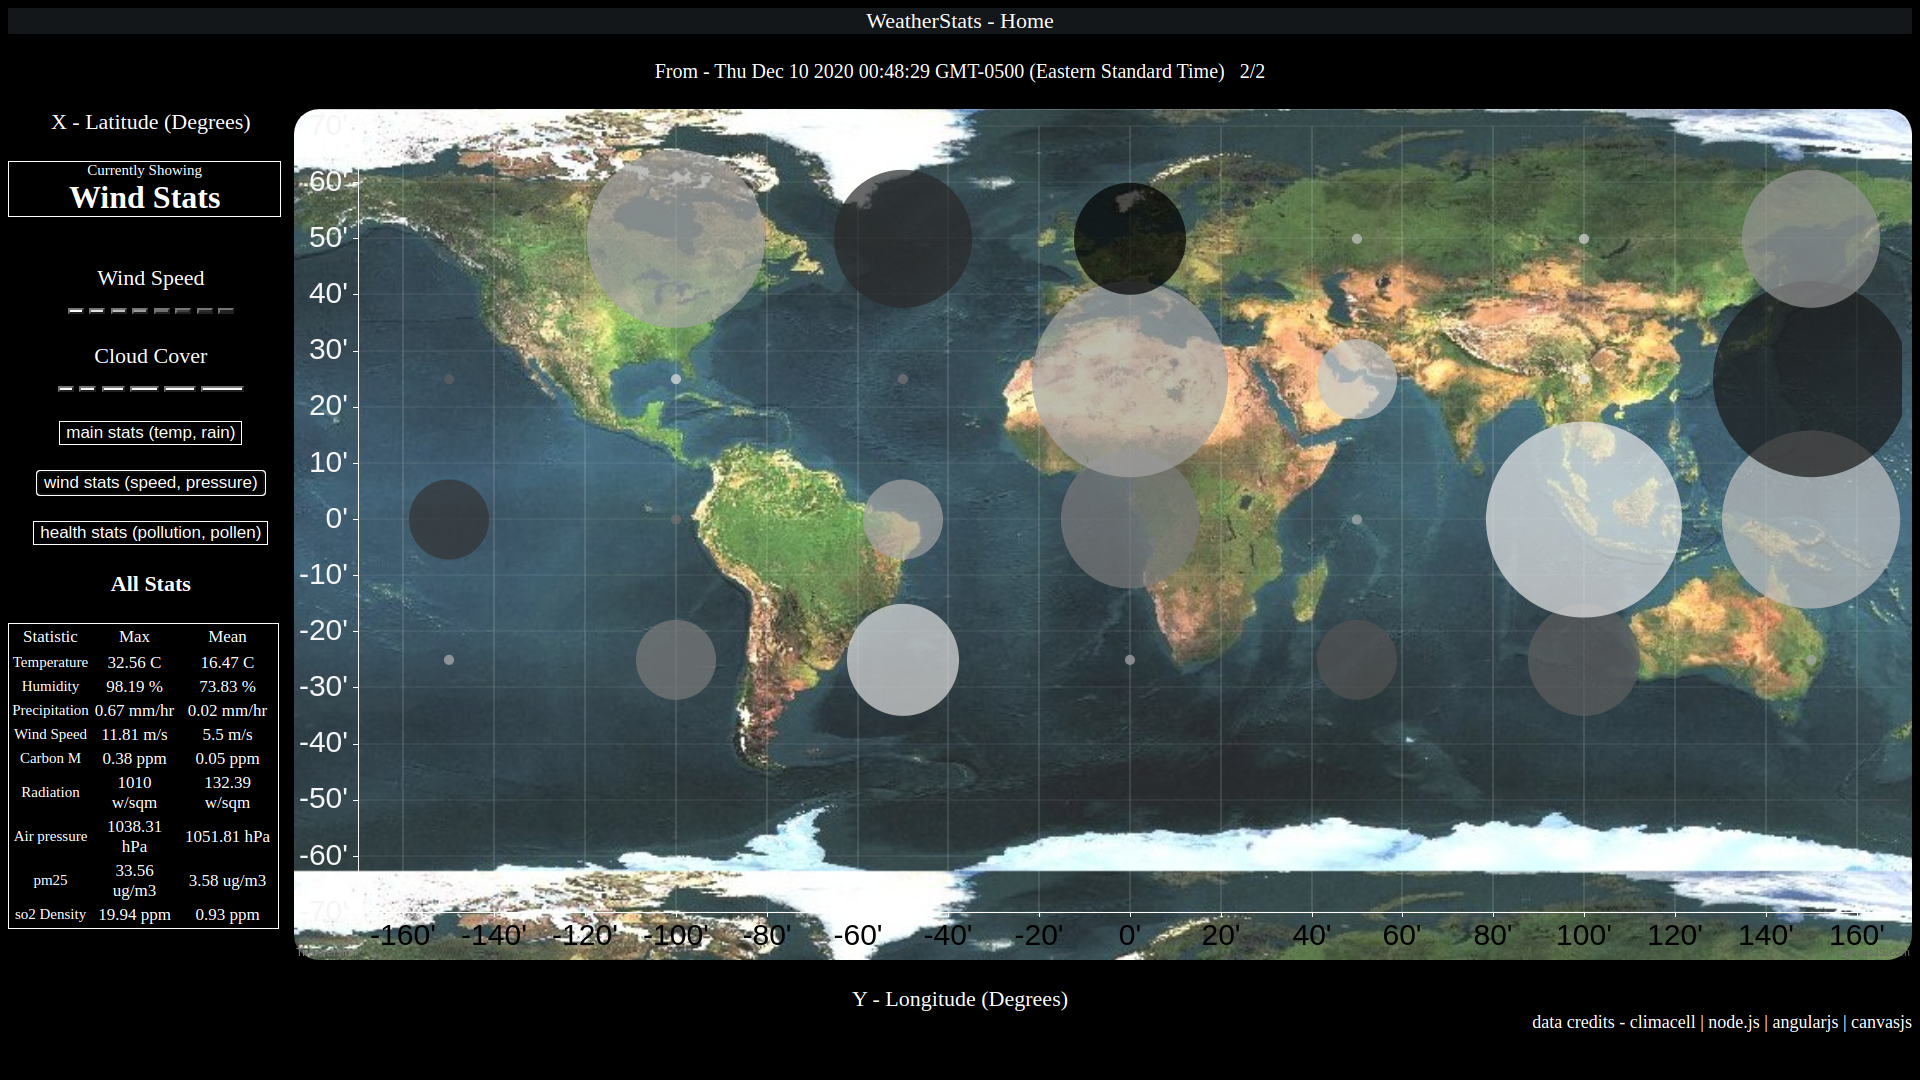
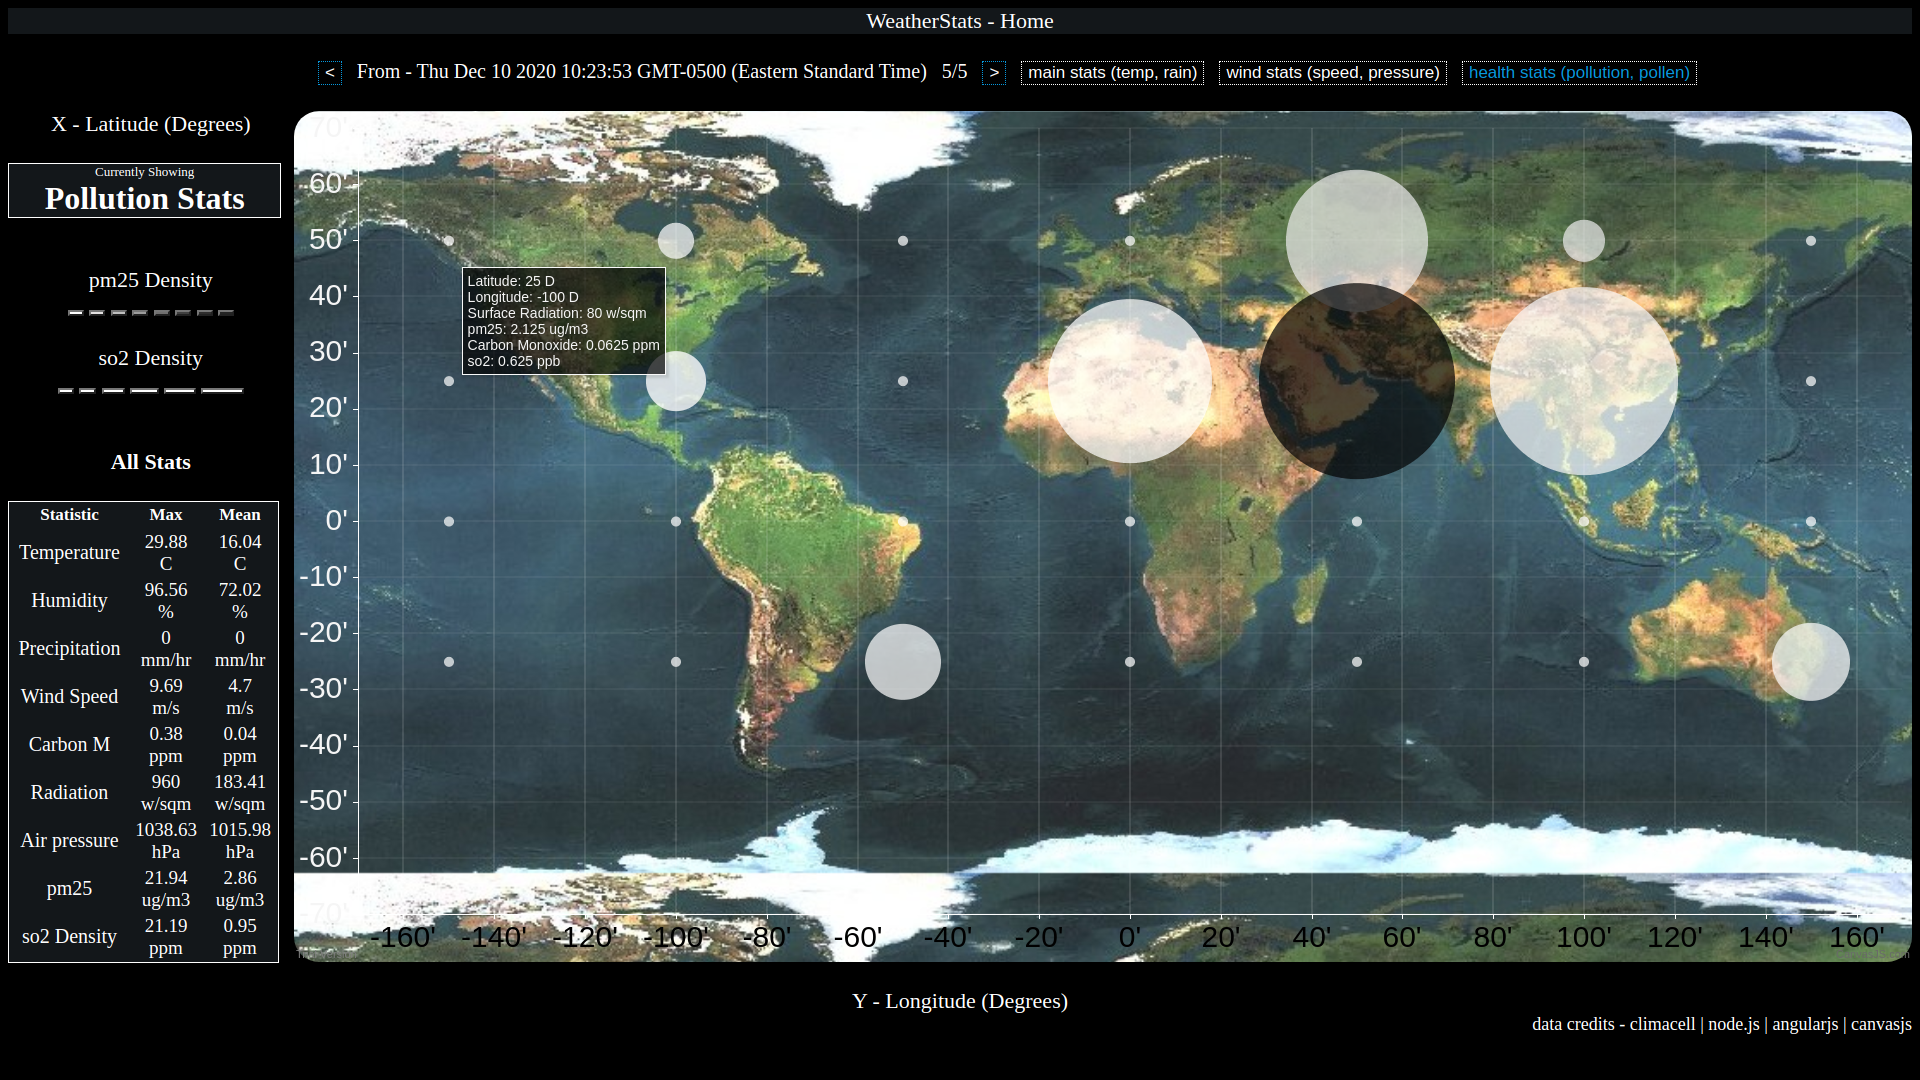
new

diff --git a/home.html b/home.html
@@ -8,15 +8,39 @@
 
    <body ng-app="myApp" ng-controller = "ajaxController" style="background-color: black; color: white; font-size: 22;">
      <center><div style="background-color: #13171a;">WeatherStats - Home</div><br>
-     <div style="font-size: 20;">From - {{date}} &nbsp; {{cr}}/{{received.length-1}}</div><br></center>
+
+     <div style="font-size: 20;">&nbsp;&nbsp;&nbsp;&nbsp;&nbsp;&nbsp;&nbsp;&nbsp;&nbsp;&nbsp;&nbsp;&nbsp;&nbsp;&nbsp;&nbsp;&nbsp;&nbsp;&nbsp;
+       <button ng-click="get_accurate(-1)" style="background: transparent; color: white; border: 1px dotted #0b98de; font-size: 17;">
+       <
+       </button>&nbsp;&nbsp;
+
+     From - {{date}} &nbsp; {{cr}}/{{received.length-1}}&nbsp;&nbsp;
+
+      <button ng-click="get_accurate(-2)" style="background: transparent; color: white; border: 1px dotted #0b98de; font-size: 17;">
+      >
+      </button>&nbsp;&nbsp;
+
+     <button ng-click="createch_main('main')" style="background: transparent; color: {{color_ch['main']}}; border: 1px dotted white; font-size: 17;">
+     main stats (temp, rain)
+    </button>&nbsp;&nbsp;
+
+     <button ng-click="createch_main('wind')" style="background: transparent; color: {{color_ch['wind']}}; border: 1px dotted white; font-size: 17;">
+     wind stats (speed, pressure)
+     </button>&nbsp;&nbsp;
+
+     <button ng-click="createch_main('health')" style="background: transparent; color: {{color_ch['health']}}; border: 1px dotted white; font-size: 17;">
+      health stats (pollution, pollen)
+    </button></div><br>
+     </center>
      <div>
        <div style="width: 100%; height: 80%;">
          <div style="width: 15%; float: left;">
            <center>
              X - Latitude (Degrees)<br><br>
-             <div style="border: 1px solid white; width: 95%; font-size: 15; float: left;">
+             <div style="border: 1px solid white; width: 95%; font-size: 13; float: left;background-color: #13171a;">
                Currently Showing<br><font size=6><b>{{heading}}</b></font>
              </div><br><br><br><br>
+             <div>
              {{guide[heading][0]}}<br>
             <button style="background-color: #ffffff; color: white;"></button>
             <button style="background-color: #e3e1e1; color: white;"></button>
@@ -34,28 +58,17 @@
            <button style="background-color: #ffffff; color: white; width: 10%;"></button>
            <button style="background-color: #ffffff; color: white; width: 11%;"></button>
            <button style="background-color: #ffffff; color: white; width: 15%;"></button>
-
+           </div>
            <br><br>
-           <button ng-click="createch_main('main')" style="background: transparent; color: white; border: 1px solid white; font-size: 17;">
-           main stats (temp, rain)
-          </button><br><br>
 
-           <button ng-click="createch_main('wind')" style="background: transparent; color: white; border: 1px solid white; font-size: 17;">
-           wind stats (speed, pressure)
-           </button><br><br>
-
-           <button ng-click="createch_main('health')" style="background: transparent; color: white; border: 1px solid white; font-size: 17;">
-            health stats (pollution, pollen)
-           </button><br><br>
-
-           <div style="font-size: 22;"><b>All Stats</b></div><br>
-           <table style="float: left; border: 1px solid white; width: 95%; font-size: 17; text-align: center;">
-            <tr><td>Statistic</td><td>Max</td><td>Mean</td></tr>
+           <div style="font-size: 22; "><b>All Stats</b></div><br>
+           <table style="float: left; border: 1px solid white; width: 95%; font-size: 17; text-align: center; background-color: #13171a;">
+            <tr><th>Statistic</th><th>Max</th><th>Mean</th></tr>
             <tr></tr>
-           <tr ng-repeat="xy in mean_stats" style="font-size: 15; text-align: center;">
+           <tr ng-repeat="xy in mean_stats" style="font-size: 20; text-align: center;">
              <td>{{xy["name"]}}</td>
-             <td style="font-size: 17;">{{xy["max"]}} {{xy["unit"]}}</td>
-             <td style="font-size: 17;">{{xy["mean"]}} {{xy["unit"]}}</td>
+             <td style="font-size: 19;">{{xy["max"]}}<br>{{xy["unit"]}}</td>
+             <td style="font-size: 19;">{{xy["mean"]}} <br>{{xy["unit"]}}</td>
            </tr>
           </table>
 
@@ -68,10 +81,10 @@
     <script>
         var weather = angular.module('myApp', []);
         weather.controller('ajaxController', function($scope, $http){
-
           $scope.createch_main =
           function (forecast)
           {
+            $scope.color_ch = {'main':'white', 'wind':'white', 'health': 'white'};
             $scope.cr = $scope.received.findIndex(function (tm){return tm.substring(0,20)==$scope.stats[0]["time"].substring(0,20);});
             var stats = $scope.stats;
             var stats = JSON.parse(JSON.stringify(stats).split('"lat":').join('"y":'));
@@ -116,6 +129,7 @@
 
               for (xy in stats)
               {
+                stats[xy]["z"] = stats[xy]["z"];
                 //console.log("rgb("+parseInt((stats[xy]["temp"]/$scope.mean_stats[0]["max"])*256)+",50,50)");
                 var cx = 256 - parseInt((stats[xy]["temp"]/$scope.mean_stats[0]["max"])*256);
                 var cx1 = "("+cx+","+cx+","+cx+")";
@@ -123,6 +137,7 @@
               }
             }
             $scope.heading = "Main Stats";
+            $scope.color_ch['main'] = '#0b98de';
             }
 
             if (forecast=="wind")
@@ -152,6 +167,7 @@
             }
 
             $scope.heading = "Wind Stats";
+            $scope.color_ch['wind'] = '#0b98de';
             }
 
             if (forecast=="health")
@@ -180,7 +196,7 @@
               var cx1 = "("+cx+","+cx+","+cx+")";
               stats[xy]["color"] = "rgb"+cx1;
             }
-
+            $scope.color_ch['health'] = '#0b98de';
             $scope.heading = "Pollution Stats";
             }
             var chart = new CanvasJS.Chart("main_screen",
@@ -220,11 +236,26 @@
       }
 
       $scope.get_accurate = function (x){
-
+        if (x==-1)
+        {
+          if ($scope.cr>=1)
+          {
+            $scope.cr-=1;
+            x = $scope.cr;
+          }
+        }
+        else if (x==-2)
+        {
+          if ($scope.cr<$scope.received.length-1)
+          {
+            $scope.cr+=1;
+            x = $scope.cr;
+          }
+        }
         var url = window.location.href+"get_data_on";
             $http.get(url+"?date="+$scope.received[x]).then(function (response){
             $scope.stats = response["data"];
-            $scope.createch_main("main");
+            $scope.createch_main("health");
           });
       }
 

diff --git a/main.js b/main.js
@@ -55,8 +55,13 @@ function fetch_and_update()
       var stored_data1 = require('./stored_data.json');
       stored_data1.push(current);
       fs.writeFile('./stored_data.json', JSON.stringify(stored_data1), err => { if (err) throw err;});
-
+      return;
     });
+  }
+  else
+  {
+    console.log("Data is already new.");
+    return;
   }
 }
 
